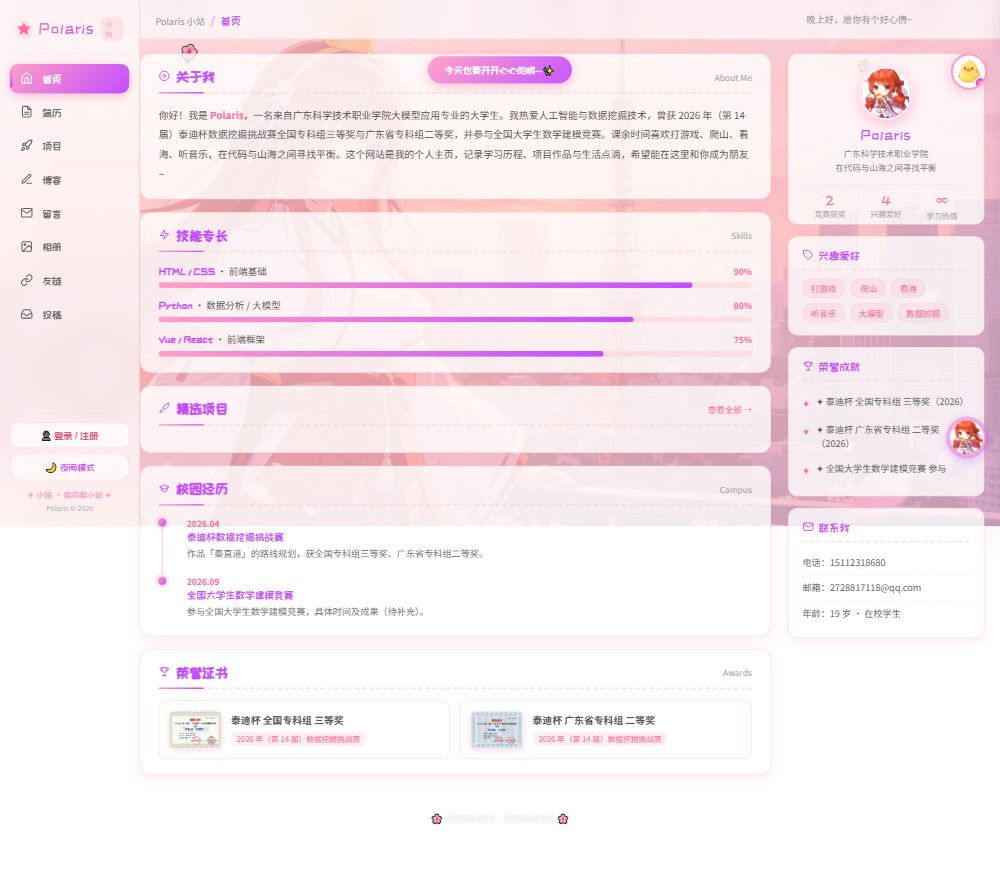
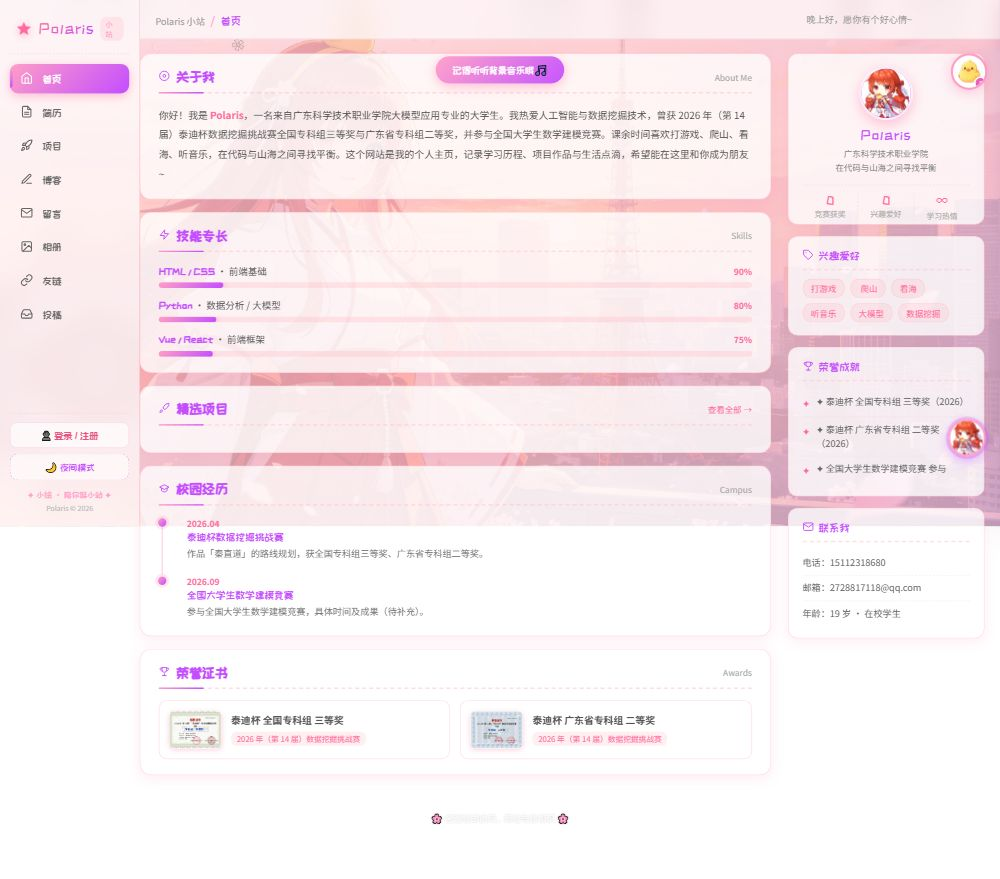
fix: 相册管理加收起按钮/创建后自动刷新/照片加载不一张张冒

diff --git a/static/admin-panel.js b/static/admin-panel.js
@@ -126,9 +126,10 @@
       var old=document.getElementById('photoAdminBox'); if(old) old.remove();
       var box=document.createElement('div'); box.id='photoAdminBox';
       box.style.cssText='margin:8px 0 10px;padding:10px;border:1px solid #f0d;border-radius:10px;background:rgba(255,255,255,.6);';
-      box.innerHTML='<div style="font-size:13px;font-weight:600;margin-bottom:8px;">该相册照片（点右上角删除）</div>'+
+      box.innerHTML='<div style="display:flex;justify-content:space-between;align-items:center;margin-bottom:8px;"><span style="font-size:13px;font-weight:600;">该相册照片（点右上角删除）</span><button id="paClose" style="padding:3px 10px;font-size:12px;border:1px solid #f8bbd0;background:#fff;border-radius:6px;cursor:pointer;color:#c2185b;">收起</button></div>'+
         '<div style="display:grid;grid-template-columns:repeat(auto-fill,minmax(90px,1fr));gap:8px;" id="paGrid"></div>';
       (rootBox||document.getElementById('alManage')).appendChild(box);
+      box.querySelector('#paClose').onclick=function(){ box.remove(); };
       var grid=box.querySelector('#paGrid');
       var list=r.photos||[];
       if(!list.length){ grid.innerHTML='<div style="color:#aaa;font-size:12px;">暂无照片</div>'; }
@@ -163,7 +164,7 @@
       window.PolarisCloud.call('create_album', {
         title: title, description: desc, is_public: isPub, album_password: pw
       }).then(function (r) {
-        if (r && r.ok) { toast('相册创建成功','success'); window.albumCache=null; loadAlbumOptions(); }
+        if (r && r.ok) { toast('相册创建成功','success'); window.albumCache=null; loadAlbumOptions(); loadAlbumManage(); }
         else alert('创建失败：' + ((r && r.error) ? window.PolarisAuth.errText(r.error) : '请确认已用开发者账号登录'));
       });
     };

diff --git a/index.html b/index.html
@@ -2349,7 +2349,10 @@ document.addEventListener('DOMContentLoaded',function(){
                 r.photos.forEach(function (ph) {
                     var item = document.createElement('div');
                     item.className = 'photo-item';
-                    item.innerHTML = '<img src="' + ph.url + '" loading="lazy"><div class="photo-caption">' + (ph.caption || '') + '</div>';
+                    item.innerHTML = '<img src="' + ph.url + '" style="opacity:0;transition:opacity .35s ease;"><div class="photo-caption">' + (ph.caption || '') + '</div>';
+                    var img = item.querySelector('img');
+                    function showImg(){ img.style.opacity = 1; }
+                    if (img.complete) showImg(); else { img.onload = showImg; img.onerror = showImg; }
                     grid.appendChild(item);
                 });
             });
